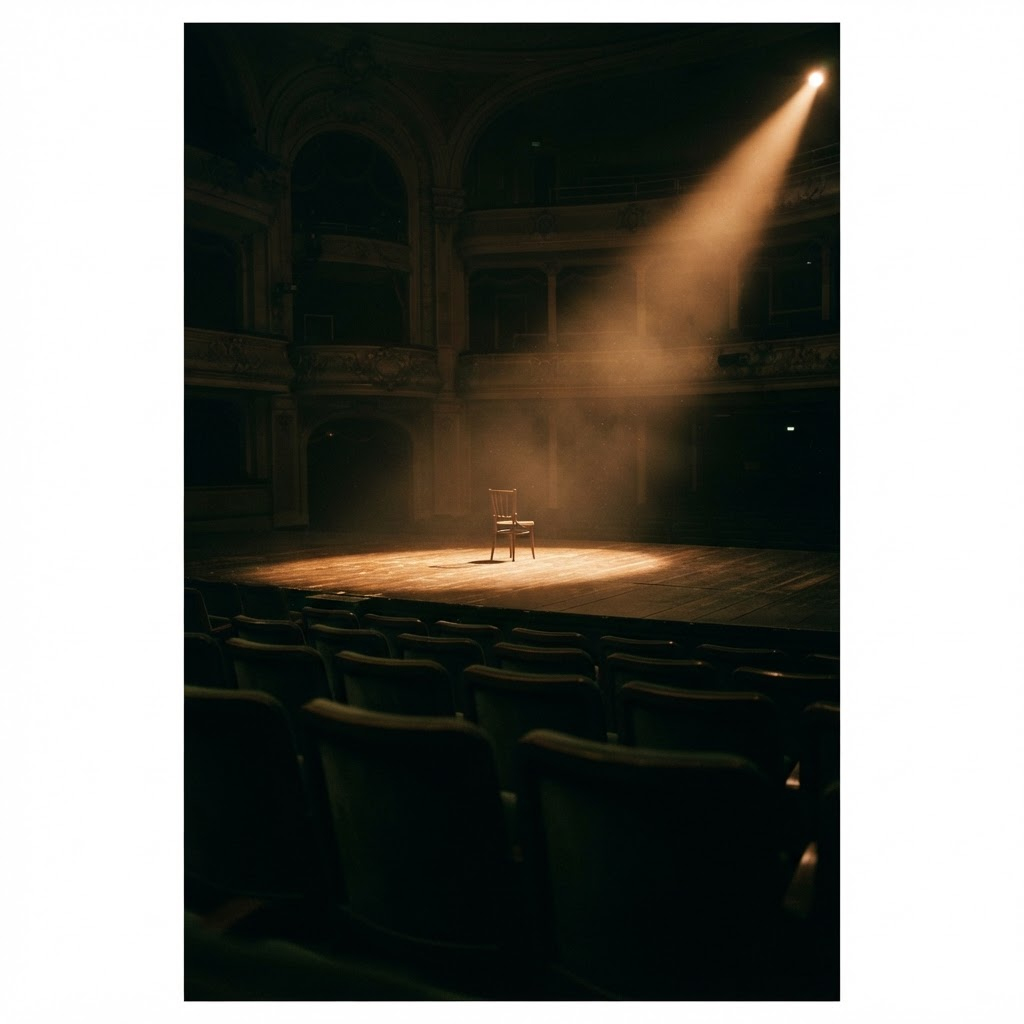
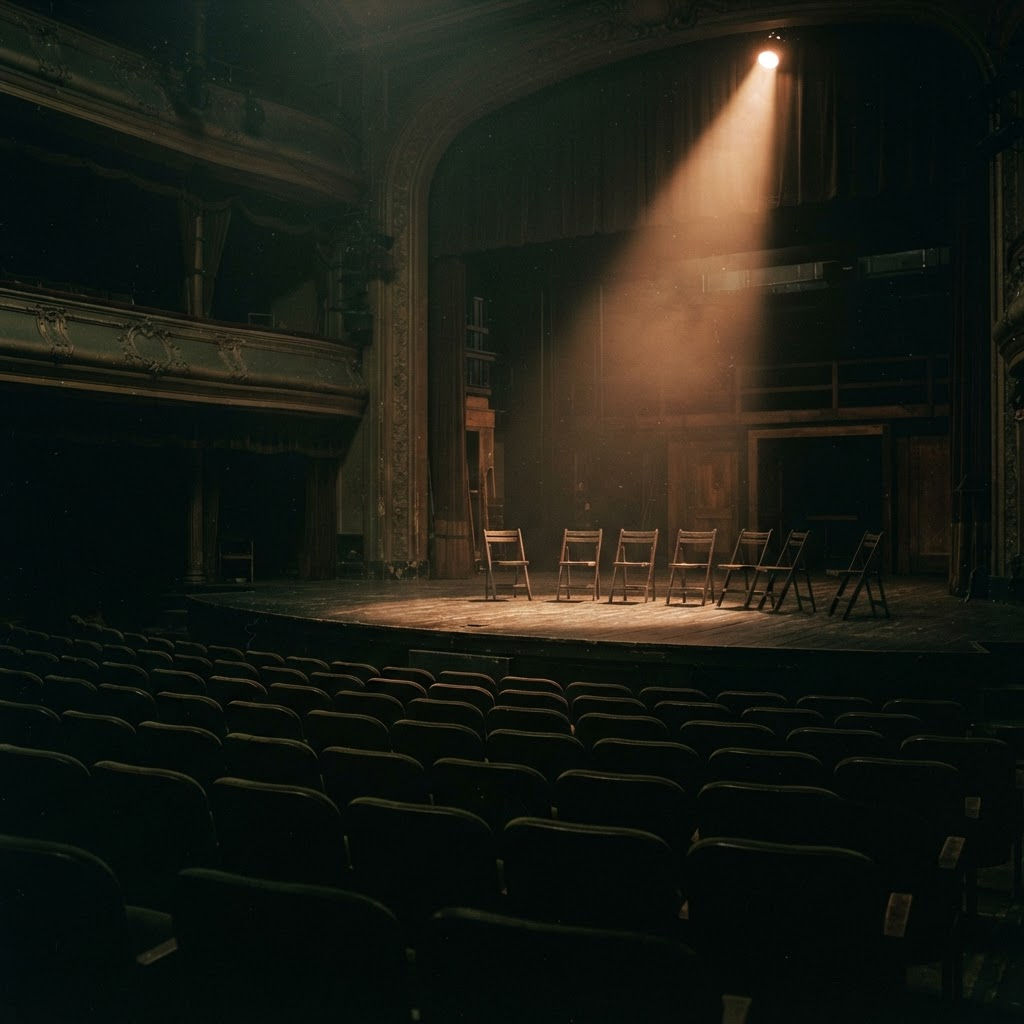
feat: adjust gradient overlays for hero component\n\nUpdated gradient overlays for better legibility and visual effect

diff --git a/components/hero.tsx b/components/hero.tsx
@@ -29,8 +29,8 @@ export function Hero() {
         className="pointer-events-none object-cover object-center"
       />
       {/* Overlays for legibility */}
-      <div className="pointer-events-none absolute inset-0 bg-gradient-to-r from-[#141a0c] via-[#141a0c]/85 to-[#141a0c]/30" />
-      <div className="pointer-events-none absolute inset-0 bg-gradient-to-t from-[#141a0c] via-transparent to-[#141a0c]/40" />
+      <div className="pointer-events-none absolute inset-0 bg-gradient-to-r from-[#141a0c] via-[#141a0c]/90 to-[#141a0c]/75" />
+      <div className="pointer-events-none absolute inset-0 bg-gradient-to-t from-[#141a0c] via-transparent to-[#141a0c]/50" />
 
       <InstrumentAccent
         instrument="guitar"
